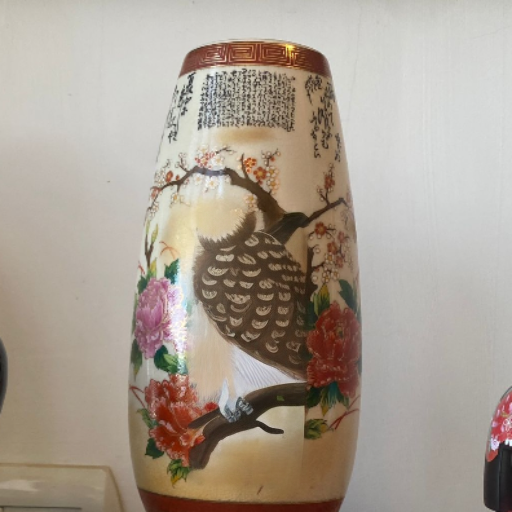
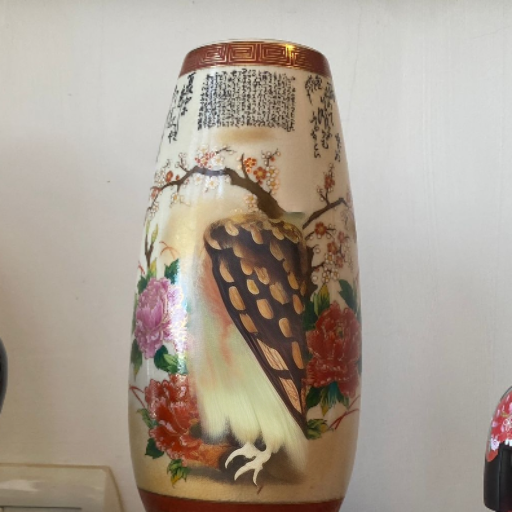
try new pipeline

Changed region(s): [[0.3438, 0.4062, 0.625, 0.9688]]

diff --git a/improved_pipeline_v2.py b/improved_pipeline_v2.py
@@ -1,0 +1,91 @@
+from vanilla_pipeline import InpaintPipeline, InpaintPipelineInput
+import torch
+import numpy as np
+import cv2 as cv
+from PIL import Image
+from functools import partial
+
+
+def mask_op(image, dilate_kernel, kernel_size):
+    mask_np = np.array(image)
+    _, mask_np = cv.threshold(mask_np, 127, 255, cv.THRESH_BINARY)
+    if dilate_kernel != 1:
+        kernel = np.ones((dilate_kernel, dilate_kernel), np.uint8)
+        mask_np = cv.dilate(mask_np, kernel, iterations=1)
+    if kernel_size != 1:
+        mask_np = cv.GaussianBlur(mask_np, (kernel_size, kernel_size), 0)
+    return Image.fromarray(mask_np).resize((64, 64), Image.LANCZOS)
+
+
+class ImprovedInpaintPipelineV2(InpaintPipeline):
+    def __init__(self, blur_kernel=11, dilate_kernel=3, resampling_jumps=2):
+        super().__init__()
+        InpaintPipelineInput.MASK_DEFAULT_PREPROC_OP = partial(mask_op, dilate_kernel=dilate_kernel, kernel_size=blur_kernel)
+        self.resampling_jumps = resampling_jumps
+    
+    @torch.no_grad()
+    def denoise(self, text_embeddings, init_latents, mask_tensor, num_inference_steps=50):
+        self.scheduler.set_timesteps(num_inference_steps, device=self.device)
+        latents = torch.randn_like(init_latents)
+
+        # ==========================================
+        # PHASE 1: Vanilla Inpainting (The "Paste")
+        # ==========================================
+        for i, t in enumerate(self.scheduler.timesteps):
+            # Expand and predict noise
+            latent_model_input = torch.cat([latents] * 2)
+            latent_model_input = self.scheduler.scale_model_input(latent_model_input, t)
+            noise_pred = self.unet(latent_model_input, t, encoder_hidden_states=text_embeddings).sample
+
+            # Perform CFG guidance
+            noise_pred_uncond, noise_pred_text = noise_pred.chunk(2)
+            noise_pred = noise_pred_uncond + 7.5 * (noise_pred_text - noise_pred_uncond)
+
+            # Step the scheduler
+            latents = self.scheduler.step(noise_pred, t, latents).prev_sample
+
+            # Vanilla Mask Blending
+            if i < len(self.scheduler.timesteps) - 1:
+                t_next = self.scheduler.timesteps[i + 1]
+            else:
+                t_next = torch.tensor([0], device=self.device)
+
+            noise = torch.randn_like(init_latents)
+            noisy_init_latents = self.scheduler.add_noise(init_latents, noise, t_next)
+            latents = (noisy_init_latents * (1 - mask_tensor)) + (latents * mask_tensor)
+
+        # ==========================================
+        # PHASE 2: Iterative Refinement (The "Smudge")
+        # ==========================================
+
+        import torchvision.transforms.functional as TF
+        # Apply a Gaussian blur directly to the PyTorch mask tensor
+        soft_mask_tensor = TF.gaussian_blur(mask_tensor, kernel_size=7, sigma=2.0)
+        
+        refine_start_step = int(num_inference_steps * 0.85) # Reduced strength!
+        t_refine = self.scheduler.timesteps[refine_start_step]
+        
+        refine_noise = torch.randn_like(latents)
+        latents = self.scheduler.add_noise(latents, refine_noise, t_refine)
+
+        for i, t in enumerate(self.scheduler.timesteps[refine_start_step:]):
+            latent_model_input = torch.cat([latents] * 2)
+            latent_model_input = self.scheduler.scale_model_input(latent_model_input, t)
+            noise_pred = self.unet(latent_model_input, t, encoder_hidden_states=text_embeddings).sample
+
+            noise_pred_uncond, noise_pred_text = noise_pred.chunk(2)
+            noise_pred = noise_pred_uncond + 7.5 * (noise_pred_text - noise_pred_uncond)
+
+            latents = self.scheduler.step(noise_pred, t, latents).prev_sample
+            
+            # Use the SOFT mask to protect the far background from turning into cupcakes!
+            noise = torch.randn_like(init_latents)
+            if i < len(self.scheduler.timesteps[refine_start_step:]) - 1:
+                 t_next = self.scheduler.timesteps[refine_start_step + i + 1]
+            else:
+                 t_next = torch.tensor([0], device=self.device)
+                 
+            noisy_init_latents = self.scheduler.add_noise(init_latents, noise, t_next)
+            latents = (noisy_init_latents * (1 - soft_mask_tensor)) + (latents * soft_mask_tensor)
+        
+        return latents

diff --git a/improved_pipeline_v3.py b/improved_pipeline_v3.py
@@ -1,0 +1,96 @@
+from vanilla_pipeline import InpaintPipeline
+import torch
+import numpy as np
+import cv2 as cv
+from PIL import Image
+
+# 1. Strict Binary Dilation Mask (No blur here, we want strict latent boundaries!)
+def mask_op(image):
+    mask_np = np.array(image)
+    _, mask_np = cv.threshold(mask_np, 127, 255, cv.THRESH_BINARY)
+    
+    # Large dilation to give the AI a canvas to cast shadows
+    dilate_kernel = np.ones((15, 15), np.uint8)
+    mask_np = cv.dilate(mask_np, dilate_kernel, iterations=1)
+    
+    return Image.fromarray(mask_np).resize((64, 64), Image.LANCZOS)
+
+class ImprovedInpaintPipeline(InpaintPipeline):
+    def __init__(self):
+        super().__init__()
+        # Override the mask operation specifically for the improved pipeline
+        self.__class__.MASK_DEFAULT_PREPROC_OP = staticmethod(mask_op)
+
+    @torch.no_grad()
+    def denoise(self, text_embeddings, init_latents, mask_tensor, num_inference_steps=50):
+        self.scheduler.set_timesteps(num_inference_steps, device=self.device)
+        latents = torch.randn_like(init_latents)
+
+        # 2. Strict Vanilla Latent Blending
+        # This guarantees the background (onions) stays safe, while the AI draws the cupcake
+        for i, t in enumerate(self.scheduler.timesteps):
+            latent_model_input = torch.cat([latents] * 2)
+            latent_model_input = self.scheduler.scale_model_input(latent_model_input, t)
+
+            noise_pred = self.unet(latent_model_input, t, encoder_hidden_states=text_embeddings).sample
+
+            noise_pred_uncond, noise_pred_text = noise_pred.chunk(2)
+            noise_pred = noise_pred_uncond + 7.5 * (noise_pred_text - noise_pred_uncond)
+
+            latents = self.scheduler.step(noise_pred, t, latents).prev_sample
+
+            if i < len(self.scheduler.timesteps) - 1:
+                t_next = self.scheduler.timesteps[i + 1]
+            else:
+                t_next = torch.tensor([0], device=self.device)
+
+            noise = torch.randn_like(init_latents)
+            noisy_init_latents = self.scheduler.add_noise(init_latents, noise, t_next)
+            
+            # Force background to stay true
+            latents = (noisy_init_latents * (1 - mask_tensor)) + (latents * mask_tensor)
+            
+        return latents
+
+    @torch.no_grad()
+    def pipe(self, pipe_in):
+        # 1. Run the standard generation
+        text_embeddings = self.encode_prompt(pipe_in.prompt, self.text_encoder, self.tokenizer)
+        latents = self.prepare_latents(pipe_in.init_image)
+        mask = self.prepare_mask_tensor(pipe_in.mask_image)
+        latents = self.denoise(text_embeddings, latents, mask)
+        
+        # This image will have the "sticker" harsh edges from the vanilla loop
+        ai_generated_image = self.decode_latents(latents)
+
+        # ==========================================
+        # 3. POISSON IMAGE EDITING (The Magic Polish)
+        # ==========================================
+        # Convert PIL images to OpenCV numpy arrays (RGB)
+        src = np.array(ai_generated_image)       # The image with the new AI object
+        dst = np.array(pipe_in.init_image)       # The completely untouched original image
+        
+        # We need a 512x512 mask for OpenCV. We upscale the 64x64 latent mask.
+        mask_512 = pipe_in.mask_image.resize((512, 512), Image.NEAREST)
+        mask_cv = np.array(mask_512)
+        
+        # OpenCV seamlessClone requires the mask to be 255 (white) for the object being pasted
+        # and it needs to be a 3-channel array (or 1-channel 8-bit)
+        if len(mask_cv.shape) == 2:
+            mask_cv = cv.cvtColor(mask_cv, cv.COLOR_GRAY2RGB)
+
+        # Find the center point of the bounding box of our mask
+        # seamlessClone needs to know roughly where to paste the object
+        x, y, w, h = cv.boundingRect(mask_cv[:, :, 0])
+        
+        # Fallback just in case the mask is entirely empty
+        if w == 0 or h == 0:
+            return ai_generated_image
+            
+        center = (x + w // 2, y + h // 2)
+
+        # Apply Poisson Blending! 
+        # NORMAL_CLONE mathematically adjusts the colors and gradients of the AI object to match the background lighting.
+        blended_np = cv.seamlessClone(src, dst, mask_cv, center, cv.NORMAL_CLONE)
+
+        return Image.fromarray(blended_np)

diff --git a/generate.py b/generate.py
@@ -2,7 +2,7 @@ import os
 
 from vanilla_pipeline import InpaintPipeline as VanillaPipeLine
 from ready_pipeline import PipeLine as ReadyPipeLine
-from improved_pipeline import ImprovedInpaintPipeline as ImprovedPipeLine
+from improved_pipeline_v3 import ImprovedInpaintPipeline as ImprovedPipeLine
 import torch
 
 import argparse
@@ -43,7 +43,7 @@ if __name__ == "__main__":
 
     if args.improved:
         utils.print_title('Generate using Improved Pipeline')
-        p = ImprovedPipeLine(int(args.blur), int(args.dilate), int(args.resample))
+        p = ImprovedPipeLine() #(int(args.blur), int(args.dilate), int(args.resample))
         p.apply_multiple(args.path, rf'./data/ours/{name}_results_improved')
     
         del p
